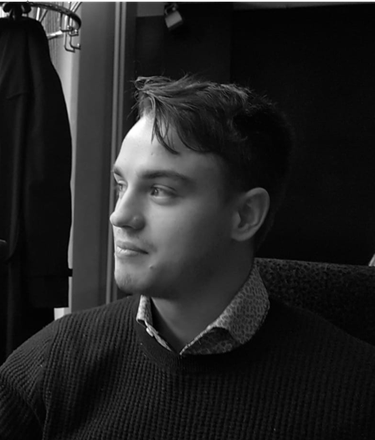
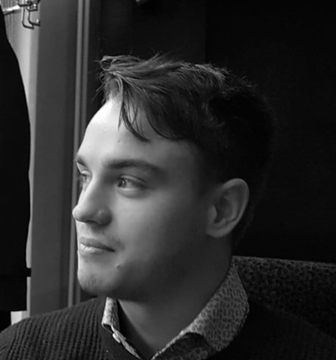
Update the hero manifest to Aku's new longer text (kutsumusprojekti, solukko.shop, weekly 5€ raffle); fixed two typos (suosikkimenetelmääni, viitseliäisyydestä). Re-crop the portrait tighter (head & shoulders, 336x360) so it's not so big

diff --git a/index.html b/index.html
@@ -917,7 +917,7 @@ body.dark-mode #word-link-tooltip { background: #3a312b; border-color: #6d5f52; 
   <div id="home-hero">
     <div class="hero-title">Solukko.com</div>
     <div class="hero-slogan">Oppiminen saa olla helppoa</div>
-    <p class="hero-manifest"><img id="aku-portrait" src="aku_bw.png" alt="Aku" width="170"> Moi! Nimeni on Aku ja ylläpidän solukko.comia. Oma kokemukseni yliopistosta on, etteivät monetkaan opittavat asiat ole niin vaikeita kuin luentodioissa esitetään. Tavoitteeni on tarjota tuleville tieteentekijöille ja tieteestä kiinnostuneille mahdollisimman selkokielinen ja helppokäyttöinen opiskelusivusto. Solukko.comissa opiskelu perustuu aktiiviseen muistamiseen eli kysymyskortteihin. Kokoan sivustolle sekä omia että käyttäjien ehdottamia kysymyskortteja, joita myös päivitetään käyttäjien kommenttien pohjalta.</p>
+    <p class="hero-manifest"><img id="aku-portrait" src="aku_bw.png" alt="Aku" width="170"> Moi! Nimeni on Aku ja ylläpidän solukko.comia. Oma kokemukseni yliopistosta on, etteivät monetkaan opittavat asiat ole niin vaikeita kuin ne luentodioissa esitetään. Tavoitteeni on tarjota tuleville tieteentekijöille ja tieteestä kiinnostuneille mahdollisimman selkokielinen ja helppokäyttöinen opiskelusivusto. Opiskelu Solukko.comissa perustuu suosikkimenetelmääni eli kysymyskortteihin, sillä olen todennut niiden tuottavan parhaan tenttimenestyksen ja pysyvimmän muistijäljen. Tämä sivusto on kutsumusprojekti, enkä koskaan halua tehdä sen käytöstä maksullista, mutta voit auttaa sen kehittämisessä kommentoimalla parannusehdotuksia tai ostamalla haalarimerkin verkkokaupastani solukko.shop. Ahkerimpien kommentoijien kesken arvon myös 5&euro; joka viikko palkinnoksi viitseliäisyydestä!</p>
   </div>
   <div class="deck-list" id="deck-list"></div>
   <div class="custom-import-wrap">
